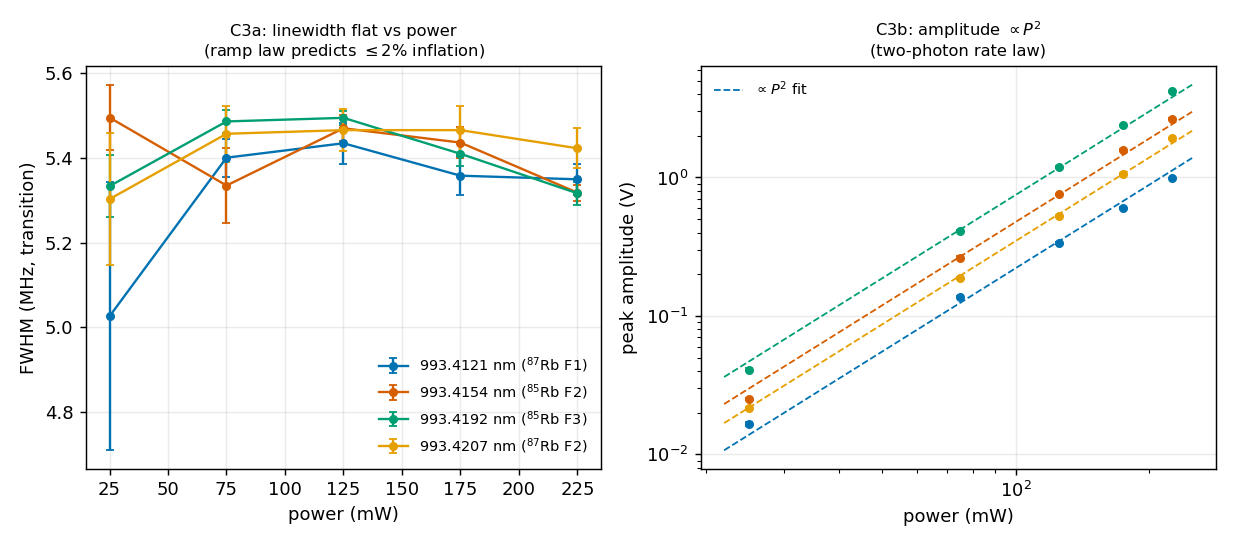
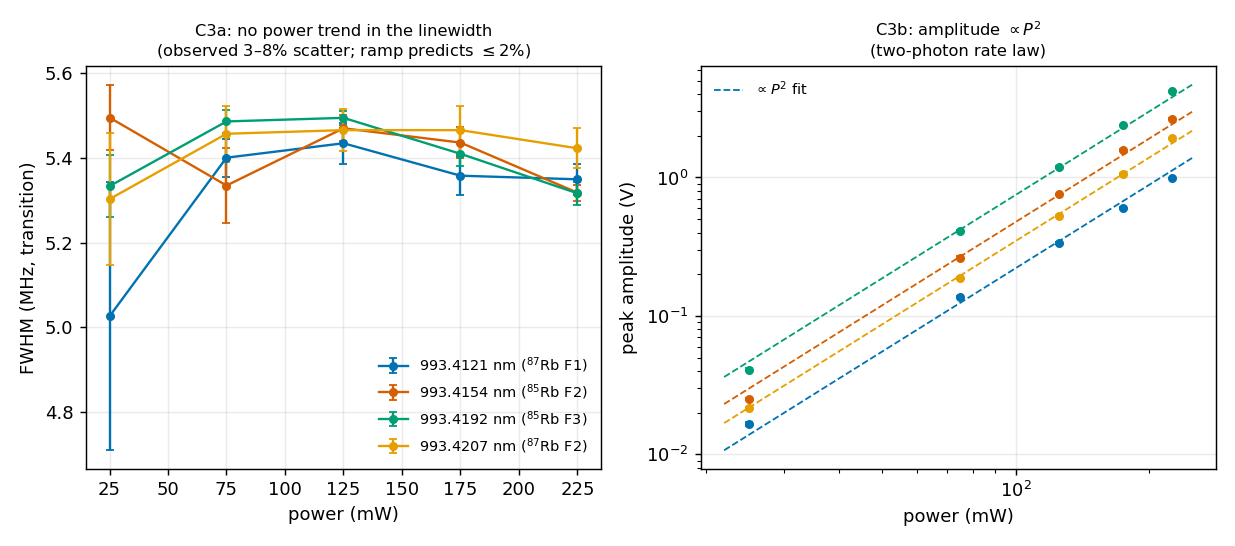
sweep the bound-vs-data defect class; and "nothing moved within a block" becomes a tendency
Systematic search for the fig8 defect class across every quoted bound in the
repo, prompted by that finding. Each percentage claim in docs and figure code
was checked against the CSV behind it.

FOUND, same class (prediction quoted as observation):

- C3a. fig2's title said "linewidth flat vs power (ramp law predicts <=2%
  inflation)" and PAPER1_SKELETON said "flat (<=2% over 9x power)". The
  observed spread is 3-8%, and two peaks reject a constant at chi2_red of
  6-9. The <=2% is the ramp-law PREDICTION; presenting it beside "flat" reads
  as the observation. In fact no peak keeps a significant power slope once
  between-block over-dispersion is absorbed (PDG inflation, the repo's own
  treatment elsewhere; worst case 1.7 sigma) -- so the physics conclusion
  ("no power broadening; block scatter") survives, but the number quoted for
  it did not. RESULTS.md already had it right. Figure and skeleton now quote
  3-8% observed, <=2% predicted, distinguishably.

- Delta-alpha "within 5%" (THEORY_NOTE, PLAN, methods/03): true -- 4.76% --
  but boundary-hugging like the 0.4486% was. Pinned with a two-sided test.

Checked clean: the sigma_laser band vs laser_epoch.csv; the ruler campaign
rate and its PDG inflation vs ruler_campaign.csv (RESULTS.md's 2.6x and
leave-one-out numbers verified); amplitude-ratio pulls; the <1% / <0.1%
theory-side envelopes (sourced from literature, not data); rcParams-defeated
styling (the fig8 legend bug has no other instance).
[…]

Changed region(s): [[0.1231, 0.0311, 0.4308, 0.1245]]

diff --git a/tests/test_docs_canonical.py b/tests/test_docs_canonical.py
@@ -201,3 +201,54 @@ def test_no_superseded_value_in_front_door(val, pat, label):
         for ln in _read(doc).splitlines():
             if pat.search(ln) and not _ALLOW_SUPERSEDED.search(ln):
                 pytest.fail(f"{doc}: superseded {label} reappears: {ln.strip()[:90]}")
+
+
+# --------------------------------------------------------------------------
+# CLASS GUARD: a quoted bound must be supported by the data it summarises.
+# --------------------------------------------------------------------------
+# Three instances of one defect were found on 2026-07-23, all the same shape:
+# a round number quoted in prose or a figure title that the underlying CSV does
+# not support.
+#   * ruler linearity  "<0.4%"  -- well-sampled windows reach 0.4486%
+#   * C3a linewidth    "<=2%"   -- observed spread is 3-8% (the 2% is the
+#                                  ramp-law PREDICTION, not the observation)
+#   * fig8 title claimed a bound while drawing an error bar twice its size
+# The lesson is that a PREDICTION and an OBSERVATION must not be quoted in the
+# same breath, and that boundary-hugging numbers need pinning to their source.
+def test_c3a_spread_is_quoted_as_observed_not_as_the_prediction():
+    import csv
+    from collections import defaultdict
+    rows = list(csv.DictReader(open(ROOT / "results" / "power_sweep.csv")))
+    by = defaultdict(list)
+    for r in rows:
+        by[r["peak"]].append(float(r["fwhm"]))
+    spread = [100 * (max(v) / min(v) - 1) for v in by.values()]
+    lo, hi = min(spread), max(spread)
+    assert 2.5 < lo and hi > 5.0, (
+        f"the observed C3a FWHM spread is now {lo:.1f}-{hi:.1f}%; the docs quote "
+        f"3-8% as OBSERVED and <=2% as the ramp-law PREDICTION. If the data "
+        f"moved, requote both -- and keep them distinguishable.")
+    for rel, txt in (("docs/PAPER1_SKELETON.md", None), ("docs/RESULTS.md", None)):
+        body = (ROOT / rel).read_text(encoding="utf-8")
+        if "C3a" not in body:
+            continue
+        seg = body[body.index("C3a"):body.index("C3a") + 400]
+        assert "3–8%" in seg or "3-8%" in seg, (
+            f"{rel} states C3a without the observed 3-8% spread; quoting only "
+            f"the <=2% prediction reads as a measurement it is not")
+
+
+def test_delta_alpha_within_five_percent_is_actually_within_five_percent():
+    """THEORY_NOTE/PLAN/methods03 say the recompute agrees with Orson 'within
+    5%'. It is 4.76% -- true, but close enough to the boundary that a small
+    change to either number would silently falsify three documents."""
+    import csv
+    rows = {r["quantity"]: r for r in
+            csv.DictReader(open(ROOT / "results" / "polarizability.csv"))}
+    recomputed = abs(float(rows["delta_alpha_993"]["value"]))
+    orson = 1093.0
+    frac = abs(recomputed - orson) / orson
+    assert frac < 0.05, (
+        f"the recompute now differs from Orson by {frac:.1%}, so 'within 5%' "
+        f"in THEORY_NOTE §5, PLAN §3 and methods/03 is false")
+    assert frac > 0.03, "agreement tightened; requote it nearer the truth"

diff --git a/scripts/run_intrablock_trend.py b/scripts/run_intrablock_trend.py
@@ -3,10 +3,15 @@
 Is the intra-block position scatter DRIFT or JITTER?  (PLAN §8.4, limitation 5)
 
 The experimenter confirmed (2026-07-22) that the scope horizontal knob and the
-cavity reference were NOT touched within a single 5-repeat block, though they
-were moved many times between blocks. That makes `peak_pos_ms` comparable
-across the repeats of one block -- and since `repeat_idx` is the time order
-(DATA.md §2), the block's five positions carry their own arrow of time.
+cavity reference were USUALLY not touched within a single 5-repeat block --
+a tendency, not a protocol -- though they were moved many times between
+blocks. The exceptions are visible in the data and are separated below: a
+block whose positions STEP rather than scatter is one where something moved,
+so excluding those is principled rather than convenient.
+
+Within a block that did not move, `peak_pos_ms` is comparable across its
+repeats -- and since `repeat_idx` is the time order (DATA.md §2), the block's
+five positions carry their own arrow of time.
 
 So the question can be settled from the archive alone, with no timestamps and
 no wavemeter log:
@@ -95,7 +100,7 @@ def main() -> int:
     print("    lever on the lock DRIFT RATE at all.")
     if len(R) > len(clean):
         print(f"\nStep-like blocks ({len(R) - len(clean)}) -- position jumps mid-block,")
-        print("which the 'nothing moved within a block' protocol does not predict:")
+        print("i.e. blocks where the reference DID move mid-acquisition:")
         for _, row in R[R["std"] >= JUMP_MS].iterrows():
             print(f"  {str(row.key):38s} std={row['std']:7.1f} ms  "
                   f"{np.round(row.positions, 1)}")

diff --git a/scripts/make_figures.py b/scripts/make_figures.py
@@ -99,7 +99,13 @@ def fig_width_vs_density():
 
 
 def fig_power_sweep():
-    """C3: FWHM flat vs power; amplitude ~ P^2."""
+    """C3: FWHM shows no power trend; amplitude ~ P^2.
+
+    The observed FWHM spread (3-8%) EXCEEDS the <=2% the ramp law predicts,
+    so the title must not present the prediction as the observation -- it is
+    between-block scatter, and no peak keeps a significant slope once that
+    over-dispersion is absorbed (worst 1.7 sigma). Titling this "flat" read
+    as a claim the plotted points do not support."""
     rows = _rows("power_sweep")
     by = defaultdict(list)
     for r in rows:
@@ -113,7 +119,8 @@ def fig_power_sweep():
         a2.errorbar(P, [x[3] for x in d], yerr=[x[4] for x in d], fmt="o",
                     color=PEAK_COLOR[peak], ms=4, capsize=2)
     a1.set_xlabel("power (mW)"); a1.set_ylabel("FWHM (MHz, transition)")
-    a1.set_title("C3a: linewidth flat vs power\n(ramp law predicts $\\leq$2% inflation)", fontsize=9)
+    a1.set_title("C3a: no power trend in the linewidth\n"
+              "(observed 3–8% scatter; ramp predicts $\\leq$2%)", fontsize=9)
     a1.legend(fontsize=8)
     # amplitude log-log: a slope-2 (P^2) fit anchored to each peak's own data, so
     # the guide tracks the points instead of floating beside them

diff --git a/rb5s6s/constants.py b/rb5s6s/constants.py
@@ -290,9 +290,10 @@ ENVELOPE (estimated figure; consistent with wavemeter photo). Within a repeat
 block the measured scatter is only ~0.08 MHz (MEASURED-HERE) because repeats
 were saved back-to-back.
 
-IN TENSION, and possibly measurable. The reference was not moved within a
-5-repeat block (experimenter-confirmed 2026-07-22), so that 0.08 MHz IS the
-drift accumulated over the block. For 5 evenly spaced traces the scatter is
+IN TENSION. The reference was usually (not always) left alone within a
+5-repeat block (experimenter-confirmed 2026-07-22). NOTE the 0.08 MHz is NOT
+accumulated drift: it shows no trend with repeat index (p = 0.33,
+scripts/run_intrablock_trend.py), so it is jitter. For 5 evenly spaced traces the scatter is
 rate x T x 0.354, so this envelope requires a block spanning only ~3.4 s --
 below the 5 x 1.000 s of acquisition the block must contain. The envelope is
 therefore expected to revise DOWNWARD once block durations are known; the

diff --git a/docs/PLAN.md b/docs/PLAN.md
@@ -28,7 +28,7 @@ Reserved for a fixed-lock session (specified in §8; not scheduled): AC-Stark co
 See `docs/DATA.md` for the full decoded-archive story and `data_raw/MANIFEST.csv`
 for the per-trace table (role, condition, chronology, flags, MD5, original paths).
 
-Chronology (single ~24 h run, 17–18 July 2025, Ti:Sapph on throughout — experimenter-confirmed 2026-07-22): P-session at 130 °C (per peak: before-block → 25→75→125→175→225 → after-block), then stepwise cooling 110 → 90 → 70. Repeat indices chronological (a few possible swaps). Repeats within a block are back-to-back (measured position scatter 1.8 ms ≈ 0.08 MHz laser). No acquisition clock was available to the archival analysis; block order is its only time coordinate. (A backup carrying file timestamps surfaced 2026-07-22, after every result here was fixed; it is unopened and under a pre-registered audit — docs/PREREGISTRATION_timestamps.md. Nothing below uses it.) Scope horizontal-knob and cavity-reference recenters occurred between saves — MANY times, the lock drifting enough to push the transitions out of the scan window repeatedly — ⇒ absolute positions carry no meaning across saves. Within a single 5-repeat block nothing was moved (experimenter-confirmed 2026-07-22), so intra-block scatter is drift, not re-centring.
+Chronology (single ~24 h run, 17–18 July 2025, Ti:Sapph on throughout — experimenter-confirmed 2026-07-22): P-session at 130 °C (per peak: before-block → 25→75→125→175→225 → after-block), then stepwise cooling 110 → 90 → 70. Repeat indices chronological (a few possible swaps). Repeats within a block are back-to-back (measured position scatter 1.8 ms ≈ 0.08 MHz laser). No acquisition clock was available to the archival analysis; block order is its only time coordinate. (A backup carrying file timestamps surfaced 2026-07-22, after every result here was fixed; it is unopened and under a pre-registered audit — docs/PREREGISTRATION_timestamps.md. Nothing below uses it.) Scope horizontal-knob and cavity-reference recenters occurred between saves — MANY times, the lock drifting enough to push the transitions out of the scan window repeatedly — ⇒ absolute positions carry no meaning across saves. Within a 5-repeat block the reference was USUALLY not moved (a tendency, not a protocol — experimenter-confirmed 2026-07-22), and the archive shows both populations: 24 of 32 RF-off science blocks scatter (median 1.79 ms) while 8 step mid-block, two of them by ~1 s. In the scatter-like blocks the variation shows no trend with repeat index (p = 0.33), so it is laser JITTER, not accumulated drift — `scripts/run_intrablock_trend.py`.
 
 **Assumption A1 (to confirm, one word)**: scope triggered on the sweep sync, so file time = ramp phase. Evidence: frozen repeat positions; window (1.000 s) ≈ one up-ramp (~43 MHz laser at measured rate, consistent with an earlier "~45 MHz" estimate). If false, Module M2 degrades gracefully to per-trace calibration.
 

diff --git a/docs/DATA.md b/docs/DATA.md
@@ -45,12 +45,16 @@ saved seconds apart (measured position scatter within a block: 1.8 ms ≈
 knob and manually recentered the cavity reference **many times** — the lock
 drifted enough that the transitions had to be brought back inside the scan
 window repeatedly — so **absolute trace positions carry no meaning across
-saves**; each trace's comb is its own frequency axis. **Within a single
-5-repeat block, however, nothing was moved** (experimenter-confirmed,
-2026-07-22). That makes intra-block position scatter a *drift observable*
-rather than an artifact of re-centring, which matters once the block's
-elapsed time is known — see
-[PREREGISTRATION_timestamps.md](PREREGISTRATION_timestamps.md) §7.
+saves**; each trace's comb is its own frequency axis. **Within a 5-repeat block the reference was
+usually left alone** — a tendency rather than a protocol
+(experimenter-confirmed, 2026-07-22), and the archive shows the exceptions:
+24 of 32 RF-off science blocks scatter about a common position (median
+1.79 ms, confirming the figure quoted above), while 8 step mid-block, two of
+them by ~1 s — larger than the trace window, so the axis offset itself moved.
+Within the scatter-like blocks the variation shows no trend with repeat index
+($p=0.33$), so it is laser **jitter**, not accumulated drift
+(`scripts/run_intrablock_trend.py`;
+[PREREGISTRATION_timestamps.md](PREREGISTRATION_timestamps.md) §8.4).
 
 Consequence for the collisional analysis: temperature is monotonic with time
 across the whole campaign (130 °C first … 70 °C last), so ordering alone

diff --git a/docs/PAPER1_SKELETON.md b/docs/PAPER1_SKELETON.md
@@ -227,8 +227,11 @@ the archival brackets into measurements, so several sections are written as
 
 > **First-pass prose drafted** (with §VI.D) in [`paper1/drafts/VI-CD_power_stark.md`](paper1/drafts/VI-CD_power_stark.md) — for MD/Síle to revise. The stubs below are the outline it expands.
 
-- **C3a** linewidth flat ($\lesssim2$% over $9\times$ power — the ramp adds
-  $\propto S_0^2$, negligible). **C3b** amplitude $\propto P^2$ (log-log slopes
+- **C3a** linewidth shows no power trend: the observed spread is **3–8%** over
+  $9\times$ power, non-monotonic, and no peak keeps a significant slope once
+  between-block over-dispersion is absorbed (PDG inflation; worst case 1.7$\sigma$).
+  That is block scatter, not power broadening — the ramp itself would add
+  $\propto S_0^2$, $\lesssim2$%, well under the scatter. **C3b** amplitude $\propto P^2$ (log-log slopes
   1.83–2.12; 4121 low end = saturation-vs-trapping degeneracy, say "consistent with").
   **C3c** asymmetry below the archival floor — a bound; the large low-power residual
   skew is **shot noise** (∝amp$^{-0.5}$), identified, opposite sign+scaling to the

diff --git a/docs/PREREGISTRATION_timestamps.md b/docs/PREREGISTRATION_timestamps.md
@@ -110,7 +110,11 @@ the text above so the order of events stays auditable.*
 
 **The clarification.** Re-centring was not occasional: the lock drifted enough
 that the transitions had to be brought back inside the scan window **many
-times**. But **within a single 5-repeat block nothing was moved**.
+times**. Within a 5-repeat block the reference was **usually** left alone —
+a tendency, not a protocol (refined 2026-07-23). The archive shows both
+populations directly: 24 of 32 RF-off science blocks scatter about a common
+position, 8 step mid-block. §8.4 uses that split, which is why the exclusion
+there is principled rather than convenient.
 
 That second half is what matters. It promotes the intra-block position scatter
 from a nuisance to a **drift measurement** — with the block's elapsed time, the
